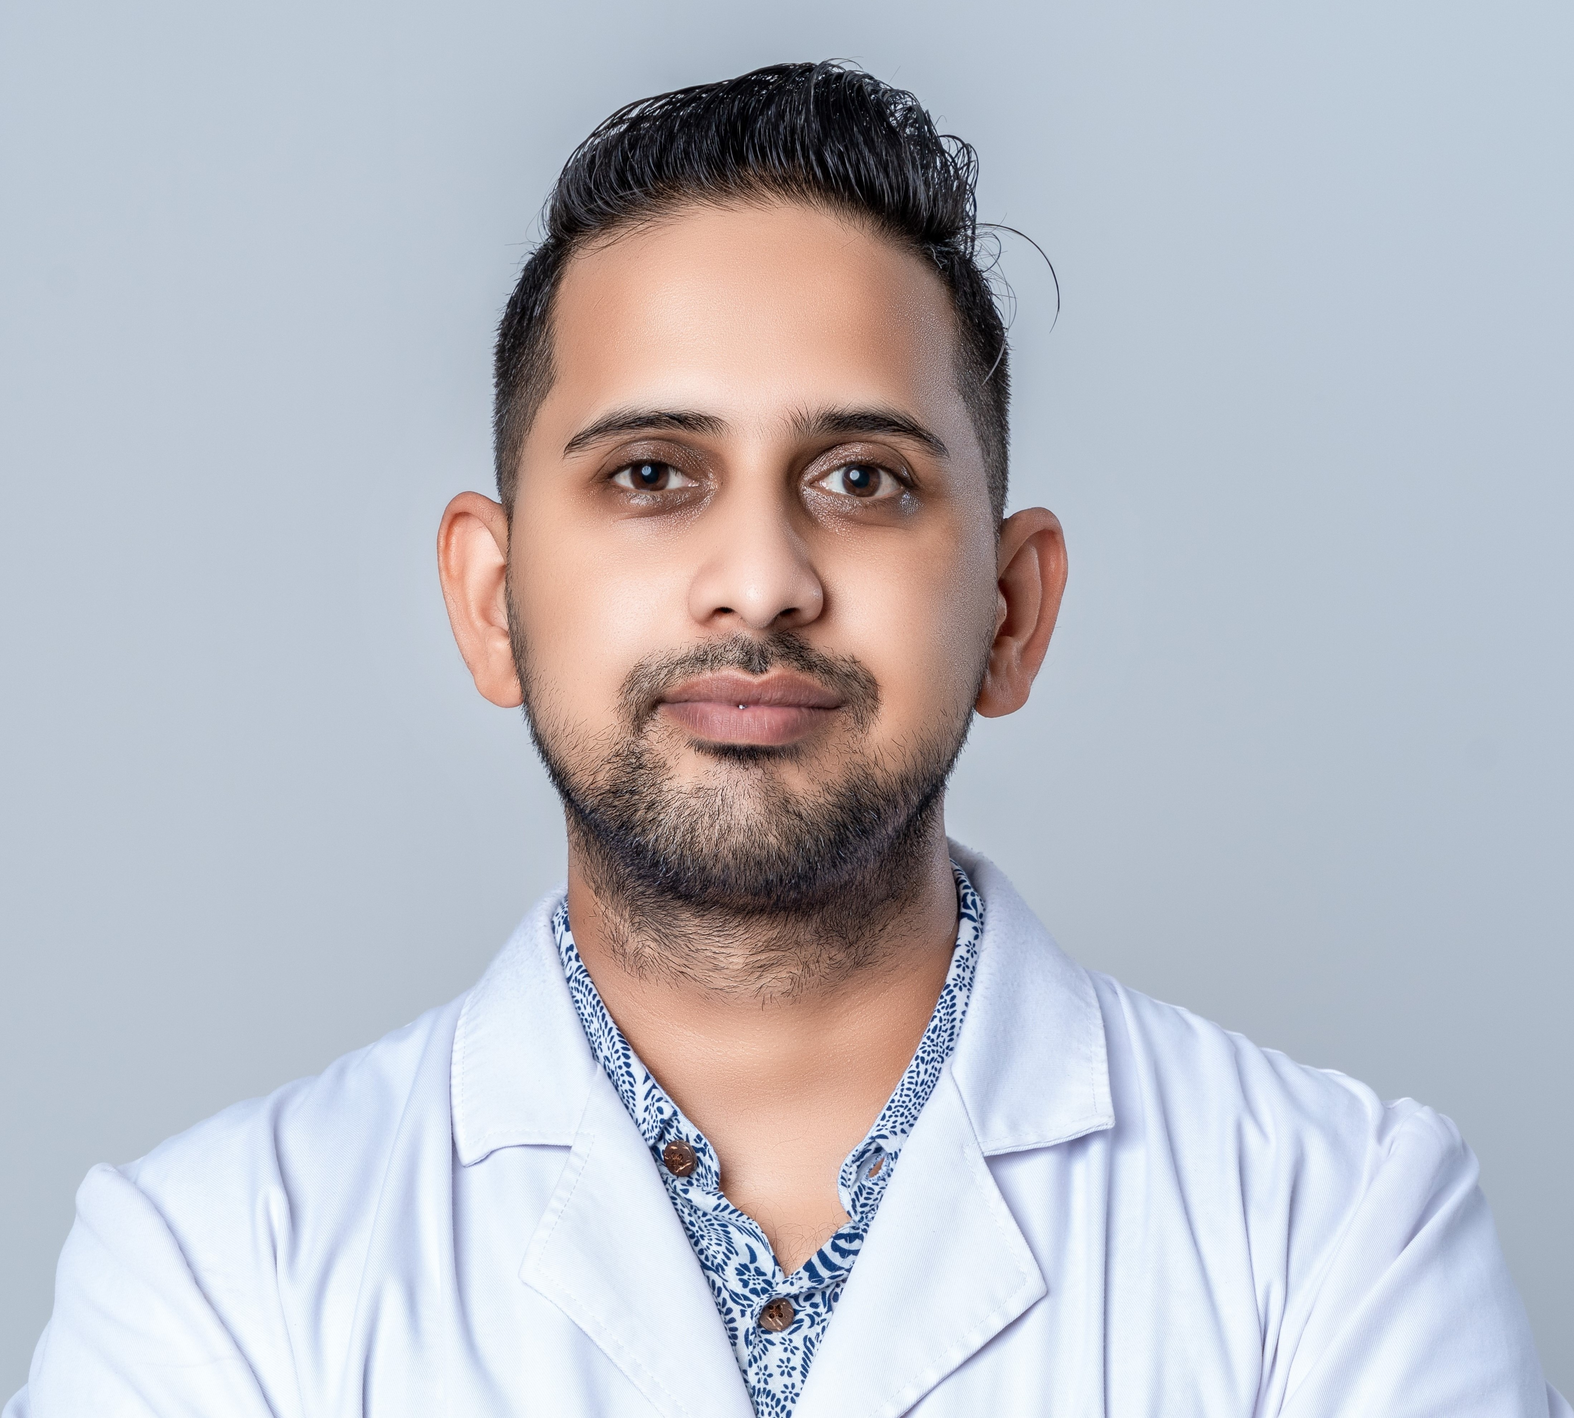
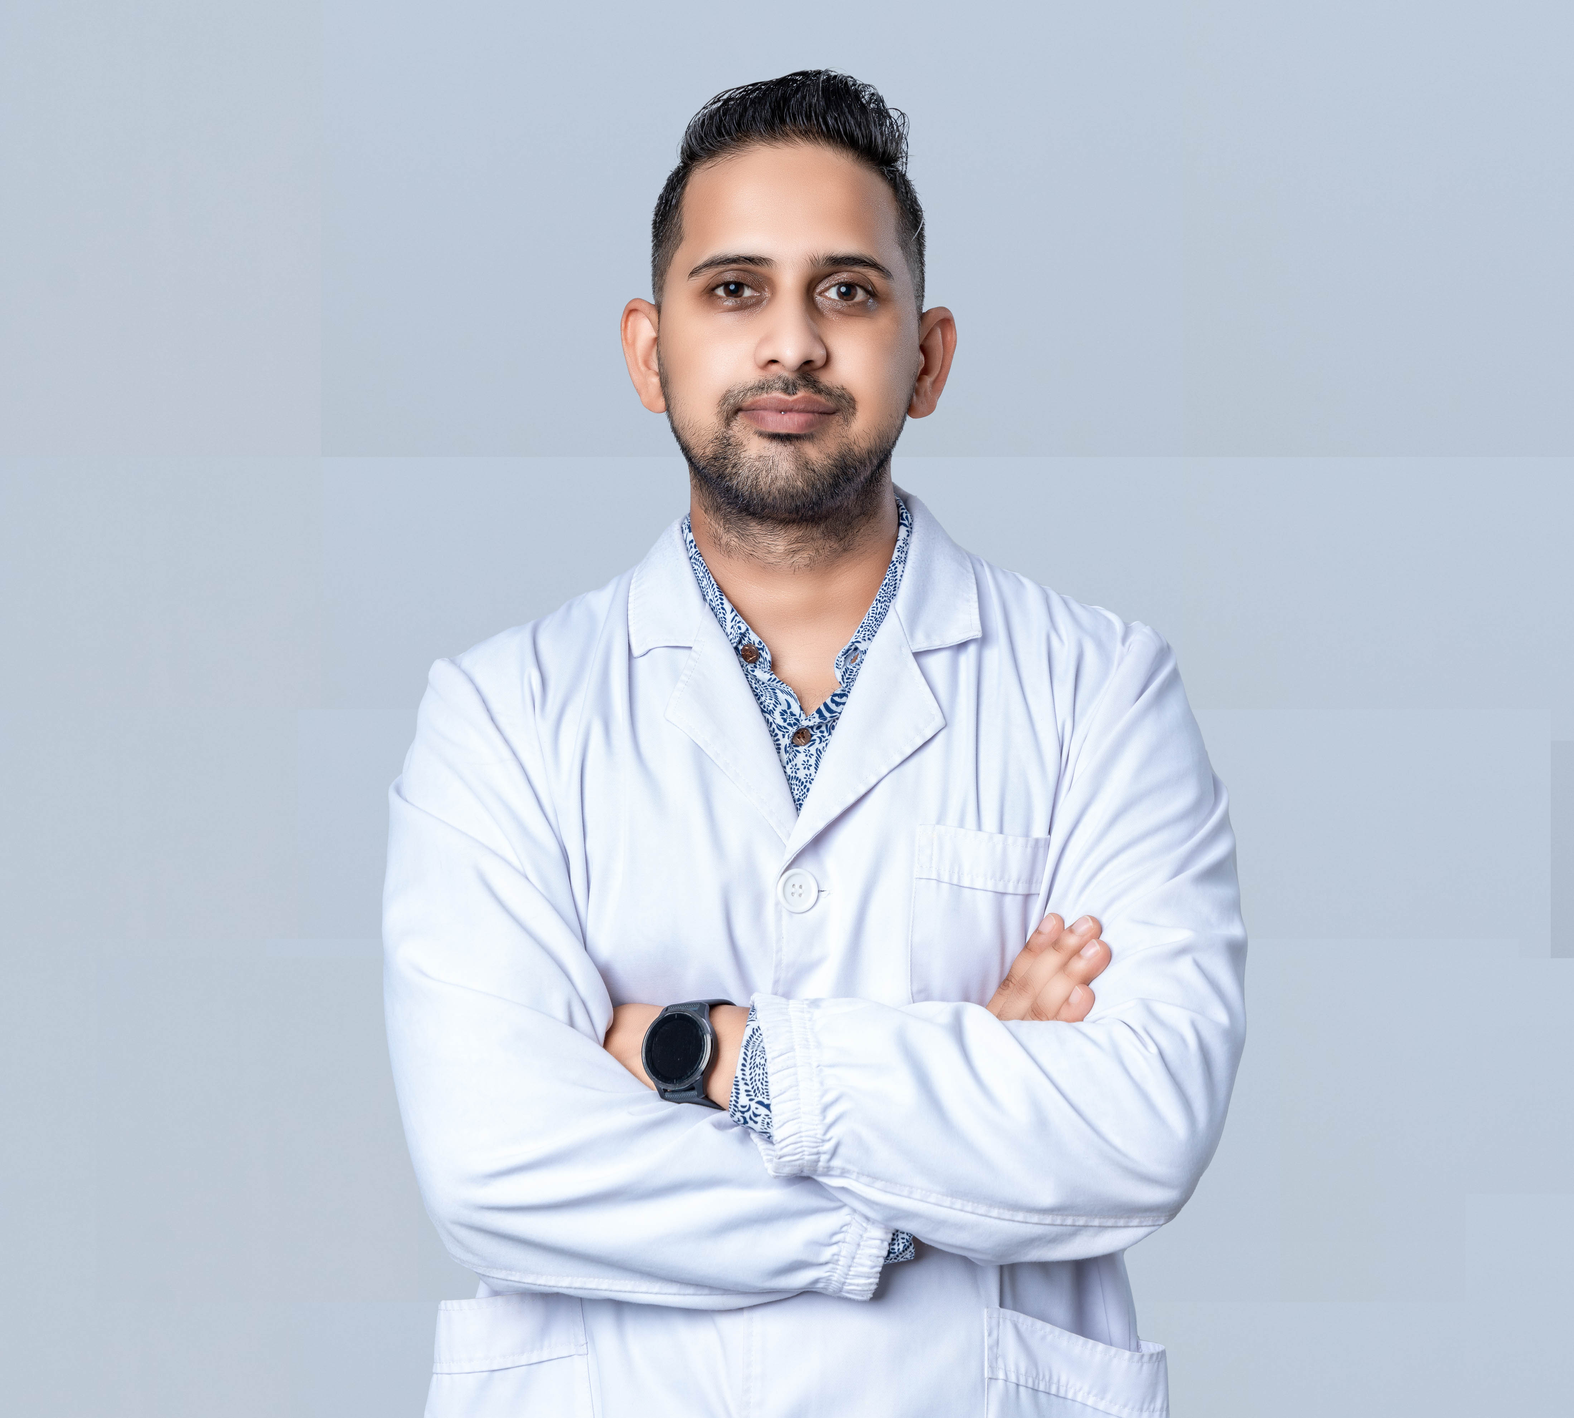
So many changes

diff --git a/about.html b/about.html
@@ -16,46 +16,48 @@
 <body>
 
     <div class="top-bar">
-        <div class="container">
-            <div>
-                <span>📍 Pasang Lhamu Road, Nepalgunj</span>
-            </div>
-            <div>
-                <span>📞 +977 9802580007</span>
-                <a href="contact.html">Book Now</a>
-            </div>
+    <div class="container">
+        <div>
+            <span>📍 Pasang Lhamu Road, Nepalgunj</span>
+        </div>
+        <div>
+            <span>📞 +977 9802580007</span>
+            <a href="contact.html">Book Now</a>
         </div>
     </div>
+</div>
 
-    <nav class="navbar">
-        <div class="container">
-            <a href="index.html" class="logo">Nepalgunj Skin Center</a>
-            <div class="menu-toggle" onclick="document.querySelector('.nav-links').classList.toggle('active')">
-                &#9776;
-            </div>
-            <ul class="nav-links">
-                <li class="nav-item"><a href="index.html">Home</a></li>
-
-                <li class="nav-item">
-                    <a href="#">Concerns ▾</a>
-                    <ul class="dropdown-menu">
-                        <li><a href="#">Hair Loss & Transplant</a></li>
-                        <li><a href="#">Acne & Scars</a></li>
-                        <li><a href="#">Pigmentation</a></li>
-                        <li><a href="#">Anti-Aging</a></li>
-                        <li><a href="#">Laser Removal</a></li>
-                        <li><a href="#">Weight Management</a></li>
-                    </ul>
-                </li>
-
-                <li class="nav-item"><a href="services.html">Services</a></li>
-                <li class="nav-item"><a href="gallery.html">Gallery</a></li>
-                <li class="nav-item"><a href="about.html">About Us</a></li>
-                <li class="nav-item"><a href="faq.html">FAQ</a></li>
-                <li class="nav-item"><a href="contact.html">Contact</a></li>
-            </ul>
+<nav class="navbar">
+    <div class="container">
+        <a href="index.html" class="logo">
+            <img src="images/hosp/logo.png" alt="Nepalgunj Skin Center" style="height: 40px;">
+        </a>
+        <div class="menu-toggle" onclick="document.querySelector('.nav-links').classList.toggle('active')">
+            &#9776;
         </div>
-    </nav>
+        <ul class="nav-links">
+            <li class="nav-item"><a href="index.html">Home</a></li>
+
+            <li class="nav-item">
+                <a href="#">Concerns ▾</a>
+                <ul class="dropdown-menu">
+                    <li><a href="#">Hair Loss & Transplant</a></li>
+                    <li><a href="#">Acne & Scars</a></li>
+                    <li><a href="#">Pigmentation</a></li>
+                    <li><a href="#">Anti-Aging</a></li>
+                    <li><a href="#">Laser Removal</a></li>
+                    <li><a href="#">Weight Management</a></li>
+                </ul>
+            </li>
+
+            <li class="nav-item"><a href="services.html">Services</a></li>
+            <li class="nav-item"><a href="gallery.html">Gallery</a></li>
+            <li class="nav-item"><a href="about.html">About Us</a></li>
+            <li class="nav-item"><a href="faq.html">FAQ</a></li>
+            <li class="nav-item"><a href="contact.html">Contact</a></li>
+        </ul>
+    </div>
+</nav>
 
     <section class="section section-bg" style="text-align: center; padding: 4rem 0;">
         <div class="container">
@@ -107,7 +109,7 @@
                 <div class="service-card">
                     <div
                         style="width: 150px; height: 150px; background: #ddd; border-radius: 50%; margin: 0 auto 1rem; overflow: hidden;">
-                        <img src="images/doctor-placeholder.jpg" alt="Dr. Name"
+                        <img src="images/doctor-placeholder.jpg" alt="Dr. Sapana Sharma"
                             style="width: 100%; height: 100%; object-fit: cover; background-color: #e0e0e0;">
                     </div>
                     <h3>Dr. Sapana Sharma</h3>
@@ -120,81 +122,81 @@
     </section>
 
     <footer>
-        <div class="container">
-            <div class="footer-grid">
-                <div class="footer-col">
-                    <h3>Nepalgunj Skin Center</h3>
-                    <p>Advanced Skin, Hair & Laser Clinic. Dedicated to providing world-class dermatological care in
-                        Nepalgunj.</p>
-                </div>
-                <div class="footer-col">
-                    <h3>Quick Links</h3>
-                    <ul class="footer-links">
-                        <li><a href="index.html">Home</a></li>
-                        <li><a href="about.html">About Us</a></li>
-                        <li><a href="services.html">Services</a></li>
-                        <li><a href="contact.html">Contact</a></li>
-                    </ul>
-                </div>
-                <div class="footer-col">
-                    <h3>Contact Us</h3>
-                    <ul class="footer-links">
-                        <li>📍 Pasang Lhamu Road, Nepalgunj Banke</li>
-                        <li>📞 +977 9802580007</li>
-                        <li>✉ nepalgunjskincenter@gmail.com</li>
-                    </ul>
-
-                    <div class="social-links">
-                        <!-- Facebook -->
-                        <a href="https://www.facebook.com/nepalgunjskincenter" aria-label="Facebook">
-                            <svg viewBox="0 0 24 24" width="24" height="24">
-                                <path
-                                    d="M14 13.5h2.5l1-4H14v-1.2c0-1.03 0-2 2-2h1.5v-3.81c0 0-1.35-.12-2.65-.12-2.7 0-4.6 1.65-4.6 4.7v2.43H8.3v4h2.05V24h5.65v-10.5z" />
-                            </svg>
-                        </a>
-                        <!-- Instagram -->
-                        <a href="https://www.instagram.com/nepalgunjskincenter/" aria-label="Instagram">
-                            <svg viewBox="0 0 24 24" width="24" height="24">
-                                <path
-                                    d="M12 2.16c3.2 0 3.58.01 4.85.07 3.25.15 4.77 1.69 4.92 4.92.06 1.27.07 1.65.07 4.85s-.01 3.58-.07 4.85c-.15 3.23-1.66 4.77-4.92 4.92-1.27.06-1.65.07-4.85.07s-3.58-.01-4.85-.07c-3.26-.15-4.77-1.69-4.92-4.92-.06-1.27-.07-1.65-.07-4.85s.01-3.58.07-4.85c.15-3.23 1.66-4.77 4.92-4.92 1.27-.06 1.65-.07 4.85-.07M12 0C8.74 0 8.33.01 7.05.07c-4.27.2-6.78 2.71-6.98 6.98C.01 8.33 0 8.74 0 12c0 3.26.01 3.67.07 4.95.2 4.27 2.71 6.78 6.98 6.98 1.28.06 1.69.07 4.95.07 3.26 0 3.67-.01 4.95-.07 4.27-.2 6.78-2.71 6.98-6.98.06-1.28.07-1.69.07-4.95 0-3.26-.01-3.67-.07-4.95-.2-4.27-2.71-6.78-6.98-6.98C15.67.01 15.26 0 12 0zm0 5.84c-3.4 0-6.16 2.76-6.16 6.16S8.6 18.16 12 18.16 18.16 15.4 18.16 12 15.4 5.84 12 5.84zm0 10.16c-2.21 0-4-1.79-4-4s1.79-4 4-4 4 1.79 4 4-1.79 4-4 4zm6.41-8.04c-.77 0-1.4.63-1.4 1.4 0 .77.63 1.4 1.4 1.4.77 0 1.4-.63 1.4-1.4 0-.77-.63-1.4-1.4-1.4z" />
-                            </svg>
-                        </a>
-                        <!-- LinkedIn -->
-                        <a href="https://www.linkedin.com/company/nepalgunj-skin-center/" aria-label="LinkedIn">
-                            <svg viewBox="0 0 24 24" width="24" height="24">
-                                <path
-                                    d="M4.98 3.5c0 1.381-1.11 2.5-2.48 2.5s-2.48-1.119-2.48-2.5c0-1.38 1.11-2.5 2.48-2.5s2.48 1.12 2.48 2.5zm.02 4.5h-5v16h5v-16zm7.982 0h-4.968v16h4.969v-8.399c0-4.67 6.029-5.052 6.029 0v8.399h4.988v-10.131c0-7.88-8.922-7.593-11.018-3.714v-2.155z" />
-                            </svg>
-                        </a>
-                        <!-- Tiktok -->
-                        <a href="https://www.tiktok.com/@nepalgunjskincenter" aria-label="Tiktok">
-                            <svg viewBox="0 0 24 24" width="24" height="24">
-                                <path
-                                    d="M12.525.02c1.31-.02 2.61-.01 3.91-.02.08 1.53.63 3.09 1.75 4.17 1.12 1.11 2.7 1.62 4.24 1.79v4.03c-1.44-.05-2.89-.35-4.2-.97-.57-.26-1.1-.59-1.62-.93v6.16c0 2.52-1.12 4.84-3.11 6.24-2.22 1.57-5.22 1.3-7.18-.84-1.65-1.82-1.35-4.73.68-6.09 1.6-.96 3.61-1.2 5.41-.79v4.03c-1.07-.11-2.18-.08-3.15.5-1.23.86-1.21 2.79.05 3.6.83.5 1.83.6 2.76.3.73-.24 1.37-.8 1.52-1.57.17-.89.13-1.78.13-2.65v-17z" />
-                            </svg>
-                        </a>
-                        <!-- X (Twitter) -->
-                        <a href="#" aria-label="X">
-                            <svg viewBox="0 0 24 24" width="24" height="24">
-                                <path
-                                    d="M18.244 2.25h3.308l-7.227 8.26 8.502 11.24H16.17l-5.214-6.817L4.99 21.75H1.68l7.73-8.835L1.254 2.25H8.08l4.713 6.231zm-1.161 17.52h1.833L7.084 4.126H5.117z" />
-                            </svg>
-                        </a>
-                        <!-- Youtube -->
-                        <a href="https://www.youtube.com/@nepalgunjskincenter4273" aria-label="Youtube">
-                            <svg viewBox="0 0 24 24" width="24" height="24">
-                                <path
-                                    d="M23.498 6.186a3.016 3.016 0 0 0-2.122-2.136C19.505 3.545 12 3.545 12 3.545s-7.505 0-9.377.505A3.017 3.017 0 0 0 .502 6.186C0 8.07 0 12 0 12s0 3.93.502 5.814a3.016 3.016 0 0 0 2.122 2.136c1.871.505 9.376.505 9.376.505s7.505 0 9.377-.505a3.015 3.015 0 0 0 2.122-2.136C24 15.93 24 12 24 12s0-3.93-.502-5.814zM9.545 15.568V8.432L15.818 12l-6.273 3.568z" />
-                            </svg>
-                        </a>
-                    </div>
-                </div>
+    <div class="container">
+        <div class="footer-grid">
+            <div class="footer-col">
+                <h3>Nepalgunj Skin Center</h3>
+                <p>Advanced Skin, Hair & Laser Clinic. Dedicated to providing world-class dermatological care in
+                    Nepalgunj.</p>
             </div>
-            <div class="copyright">
-                <p>&copy; 2026 Nepalgunj Skin Center. All Rights Reserved.</p>
+            <div class="footer-col">
+                <h3>Quick Links</h3>
+                <ul class="footer-links">
+                    <li><a href="index.html">Home</a></li>
+                    <li><a href="about.html">About Us</a></li>
+                    <li><a href="services.html">Services</a></li>
+                    <li><a href="contact.html">Contact</a></li>
+                </ul>
+            </div>
+            <div class="footer-col">
+                <h3>Contact Us</h3>
+                <ul class="footer-links">
+                    <li>📍 Pasang Lhamu Road, Nepalgunj Banke</li>
+                    <li>📞 +977 9802580007</li>
+                    <li>✉ nepalgunjskincenter@gmail.com</li>
+                </ul>
+
+                <div class="social-links">
+                    <!-- Facebook -->
+                    <a href="https://www.facebook.com/nepalgunjskincenter" aria-label="Facebook">
+                        <svg viewBox="0 0 24 24" width="24" height="24">
+                            <path
+                                d="M14 13.5h2.5l1-4H14v-1.2c0-1.03 0-2 2-2h1.5v-3.81c0 0-1.35-.12-2.65-.12-2.7 0-4.6 1.65-4.6 4.7v2.43H8.3v4h2.05V24h5.65v-10.5z" />
+                        </svg>
+                    </a>
+                    <!-- Instagram -->
+                    <a href="https://www.instagram.com/nepalgunjskincenter/" aria-label="Instagram">
+                        <svg viewBox="0 0 24 24" width="24" height="24">
+                            <path
+                                d="M12 2.16c3.2 0 3.58.01 4.85.07 3.25.15 4.77 1.69 4.92 4.92.06 1.27.07 1.65.07 4.85s-.01 3.58-.07 4.85c-.15 3.23-1.66 4.77-4.92 4.92-1.27.06-1.65.07-4.85.07s-3.58-.01-4.85-.07c-3.26-.15-4.77-1.69-4.92-4.92-.06-1.27-.07-1.65-.07-4.85s.01-3.58.07-4.85c.15-3.23 1.66-4.77 4.92-4.92 1.27-.06 1.65-.07 4.85-.07M12 0C8.74 0 8.33.01 7.05.07c-4.27.2-6.78 2.71-6.98 6.98C.01 8.33 0 8.74 0 12c0 3.26.01 3.67.07 4.95.2 4.27 2.71 6.78 6.98 6.98 1.28.06 1.69.07 4.95.07 3.26 0 3.67-.01 4.95-.07 4.27-.2 6.78-2.71 6.98-6.98.06-1.28.07-1.69.07-4.95 0-3.26-.01-3.67-.07-4.95-.2-4.27-2.71-6.78-6.98-6.98C15.67.01 15.26 0 12 0zm0 5.84c-3.4 0-6.16 2.76-6.16 6.16S8.6 18.16 12 18.16 18.16 15.4 18.16 12 15.4 5.84 12 5.84zm0 10.16c-2.21 0-4-1.79-4-4s1.79-4 4-4 4 1.79 4 4-1.79 4-4 4zm6.41-8.04c-.77 0-1.4.63-1.4 1.4 0 .77.63 1.4 1.4 1.4.77 0 1.4-.63 1.4-1.4 0-.77-.63-1.4-1.4-1.4z" />
+                        </svg>
+                    </a>
+                    <!-- LinkedIn -->
+                    <a href="https://www.linkedin.com/company/nepalgunj-skin-center/" aria-label="LinkedIn">
+                        <svg viewBox="0 0 24 24" width="24" height="24">
+                            <path
+                                d="M4.98 3.5c0 1.381-1.11 2.5-2.48 2.5s-2.48-1.119-2.48-2.5c0-1.38 1.11-2.5 2.48-2.5s2.48 1.12 2.48 2.5zm.02 4.5h-5v16h5v-16zm7.982 0h-4.968v16h4.969v-8.399c0-4.67 6.029-5.052 6.029 0v8.399h4.988v-10.131c0-7.88-8.922-7.593-11.018-3.714v-2.155z" />
+                        </svg>
+                    </a>
+                    <!-- Tiktok -->
+                    <a href="https://www.tiktok.com/@nepalgunjskincenter" aria-label="Tiktok">
+                        <svg viewBox="0 0 24 24" width="24" height="24">
+                            <path
+                                d="M12.525.02c1.31-.02 2.61-.01 3.91-.02.08 1.53.63 3.09 1.75 4.17 1.12 1.11 2.7 1.62 4.24 1.79v4.03c-1.44-.05-2.89-.35-4.2-.97-.57-.26-1.1-.59-1.62-.93v6.16c0 2.52-1.12 4.84-3.11 6.24-2.22 1.57-5.22 1.3-7.18-.84-1.65-1.82-1.35-4.73.68-6.09 1.6-.96 3.61-1.2 5.41-.79v4.03c-1.07-.11-2.18-.08-3.15.5-1.23.86-1.21 2.79.05 3.6.83.5 1.83.6 2.76.3.73-.24 1.37-.8 1.52-1.57.17-.89.13-1.78.13-2.65v-17z" />
+                        </svg>
+                    </a>
+                    <!-- X (Twitter) -->
+                    <a href="#" aria-label="X">
+                        <svg viewBox="0 0 24 24" width="24" height="24">
+                            <path
+                                d="M18.244 2.25h3.308l-7.227 8.26 8.502 11.24H16.17l-5.214-6.817L4.99 21.75H1.68l7.73-8.835L1.254 2.25H8.08l4.713 6.231zm-1.161 17.52h1.833L7.084 4.126H5.117z" />
+                        </svg>
+                    </a>
+                    <!-- Youtube -->
+                    <a href="https://www.youtube.com/@nepalgunjskincenter4273" aria-label="Youtube">
+                        <svg viewBox="0 0 24 24" width="24" height="24">
+                            <path
+                                d="M23.498 6.186a3.016 3.016 0 0 0-2.122-2.136C19.505 3.545 12 3.545 12 3.545s-7.505 0-9.377.505A3.017 3.017 0 0 0 .502 6.186C0 8.07 0 12 0 12s0 3.93.502 5.814a3.016 3.016 0 0 0 2.122 2.136c1.871.505 9.376.505 9.376.505s7.505 0 9.377-.505a3.015 3.015 0 0 0 2.122-2.136C24 15.93 24 12 24 12s0-3.93-.502-5.814zM9.545 15.568V8.432L15.818 12l-6.273 3.568z" />
+                        </svg>
+                    </a>
+                </div>
             </div>
         </div>
-    </footer>
+        <div class="copyright">
+            <p>&copy; 2026 Nepalgunj Skin Center. All Rights Reserved.</p>
+        </div>
+    </div>
+</footer>
 </body>
 
 </html>

diff --git a/src/about.html b/src/about.html
@@ -36,7 +36,7 @@
                         patient satisfaction and clinical excellence.</p>
                 </div>
                 <div>
-                    <img src="images/clinic-interior.jpg" alt="Clinic Interior"
+                    <img src="images/hosp/hos.jpg" alt="Clinic Interior"
                         style="border-radius: 10px; box-shadow: var(--shadow-lg); min-height: 300px; background: #eee;">
                 </div>
             </div>
@@ -49,19 +49,32 @@
                 <h2>Meet Our Experts</h2>
             </div>
             <div class="grid grid-2">
+                <!-- Dr. Abhishek Arjel -->
                 <div class="service-card">
                     <div
                         style="width: 150px; height: 150px; background: #ddd; border-radius: 50%; margin: 0 auto 1rem; overflow: hidden;">
-                        <img src="images/doctor1.jpg" alt="Dr. Name"
+                        <img src="images/front/Doc.jpg" alt="Dr. Abhishek Arjel"
                             style="width: 100%; height: 100%; object-fit: cover;">
                     </div>
-                    <h3>Dr. Name Surname</h3>
-                    <p style="color: var(--primary-color); font-weight: 500;">Senior Dermatologist</p>
+                    <h3>Dr. Abhishek Arjel</h3>
+                    <p style="color: var(--primary-color); font-weight: 500;">Dermatologist</p>
                     <p>MBBS, MD (Dermatology)</p>
-                    <p style="margin-top: 1rem;">Specialist in clinical dermatology and laser surgeries with 10+ years
-                        of experience.</p>
+                    <p style="margin-top: 1rem;">Cosmetic Dermatologist & Hair Transplant Surgeon 10+ years of
+                        experience.</p>
                 </div>
-                <!-- Add more doctors as needed -->
+
+                <!-- Second Doctor (Placeholder) -->
+                <div class="service-card">
+                    <div
+                        style="width: 150px; height: 150px; background: #ddd; border-radius: 50%; margin: 0 auto 1rem; overflow: hidden;">
+                        <img src="images/doctor-placeholder.jpg" alt="Dr. Sapana Sharma"
+                            style="width: 100%; height: 100%; object-fit: cover; background-color: #e0e0e0;">
+                    </div>
+                    <h3>Dr. Sapana Sharma</h3>
+                    <p style="color: var(--primary-color); font-weight: 500;">Specialist Title</p>
+                    <p>MBBS, MS</p>
+                    <p style="margin-top: 1rem;">Skin and Hair Transplant Expert.</p>
+                </div>
             </div>
         </div>
     </section>

diff --git a/contact.html b/contact.html
@@ -29,7 +29,9 @@
 
 <nav class="navbar">
     <div class="container">
-        <a href="index.html" class="logo">Nepalgunj Skin Center</a>
+        <a href="index.html" class="logo">
+            <img src="images/hosp/logo.png" alt="Nepalgunj Skin Center" style="height: 40px;">
+        </a>
         <div class="menu-toggle" onclick="document.querySelector('.nav-links').classList.toggle('active')">
             &#9776;
         </div>

diff --git a/faq.html b/faq.html
@@ -29,7 +29,9 @@
 
 <nav class="navbar">
     <div class="container">
-        <a href="index.html" class="logo">Nepalgunj Skin Center</a>
+        <a href="index.html" class="logo">
+            <img src="images/hosp/logo.png" alt="Nepalgunj Skin Center" style="height: 40px;">
+        </a>
         <div class="menu-toggle" onclick="document.querySelector('.nav-links').classList.toggle('active')">
             &#9776;
         </div>

diff --git a/gallery.html b/gallery.html
@@ -29,7 +29,9 @@
 
 <nav class="navbar">
     <div class="container">
-        <a href="index.html" class="logo">Nepalgunj Skin Center</a>
+        <a href="index.html" class="logo">
+            <img src="images/hosp/logo.png" alt="Nepalgunj Skin Center" style="height: 40px;">
+        </a>
         <div class="menu-toggle" onclick="document.querySelector('.nav-links').classList.toggle('active')">
             &#9776;
         </div>

diff --git a/index.html b/index.html
@@ -29,7 +29,9 @@
 
 <nav class="navbar">
     <div class="container">
-        <a href="index.html" class="logo">Nepalgunj Skin Center</a>
+        <a href="index.html" class="logo">
+            <img src="images/hosp/logo.png" alt="Nepalgunj Skin Center" style="height: 40px;">
+        </a>
         <div class="menu-toggle" onclick="document.querySelector('.nav-links').classList.toggle('active')">
             &#9776;
         </div>

diff --git a/services.html b/services.html
@@ -29,7 +29,9 @@
 
 <nav class="navbar">
     <div class="container">
-        <a href="index.html" class="logo">Nepalgunj Skin Center</a>
+        <a href="index.html" class="logo">
+            <img src="images/hosp/logo.png" alt="Nepalgunj Skin Center" style="height: 40px;">
+        </a>
         <div class="menu-toggle" onclick="document.querySelector('.nav-links').classList.toggle('active')">
             &#9776;
         </div>

diff --git a/src/header.html b/src/header.html
@@ -12,7 +12,9 @@
 
 <nav class="navbar">
     <div class="container">
-        <a href="index.html" class="logo">Nepalgunj Skin Center</a>
+        <a href="index.html" class="logo">
+            <img src="images/hosp/logo.png" alt="Nepalgunj Skin Center" style="height: 40px;">
+        </a>
         <div class="menu-toggle" onclick="document.querySelector('.nav-links').classList.toggle('active')">
             &#9776;
         </div>
